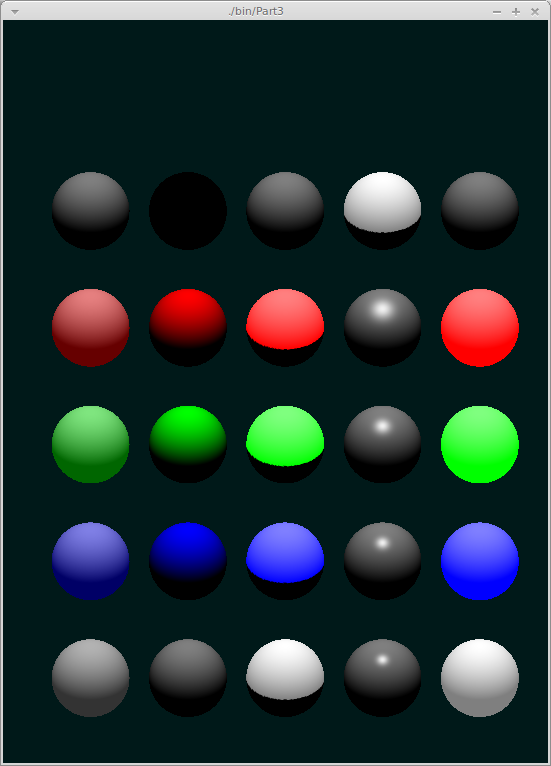
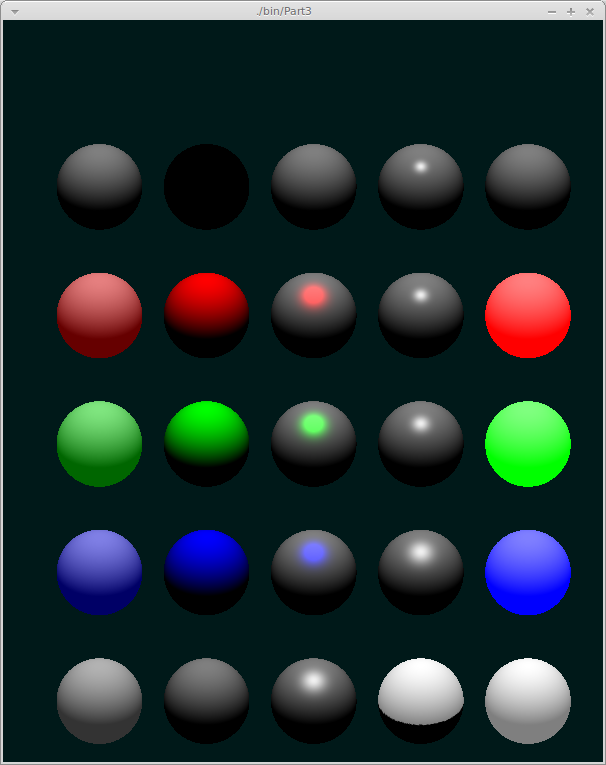
cleaning stuff up

diff --git a/Reports/Week03/Week03.tex b/Reports/Week03/Week03.tex
@@ -16,7 +16,8 @@ light emittance from an object. It obviously will not emit light on surrounding 
 
 Setting the diffuse material term equal to 0,0,0 results in a completely dark object (black body).\\ 
 Setting the specular material term equal to 0,0,0 results in an object that only has the diffuse component. In figure \ref{img:w3p2} all the spheres except for the ones in the fourth column and the second to fifth row of the third column, have a specular term equal to 0,0,0\\
-Increasing the shininess value actually decreases the strenght of the highlight.  
+Increasing the shininess value actually decreases the strenght of the highlight. In figure \ref{img:w3p2} the spheres in the fourth column show a 
+gradually decreasing shininess term from 100 to 0. 
 
 \image{Week03/spheres.png}{Spheres rendered using different shading parameters.}{0.5}{img:w3p2} 
 
@@ -62,4 +63,8 @@ Gouraud shading, as opposed to flat shading, is a matter of whether or not the c
 are interpolated between vertices. This means that gouraud shading is not related to the orientation in the screen.
 However, a gouraud shaded polygon can be rendered using the phong model, and since specular reflections depend on 
 the position of the eye, in this case the shading actually depends also on the position on the screen.
+
+\section{Part 5}
+
+\image{Week03/donut.png}{Screen capture of the animation of part5 (see Week03/Part5.cpp).}{0.5}{img:w3p5} 
 
